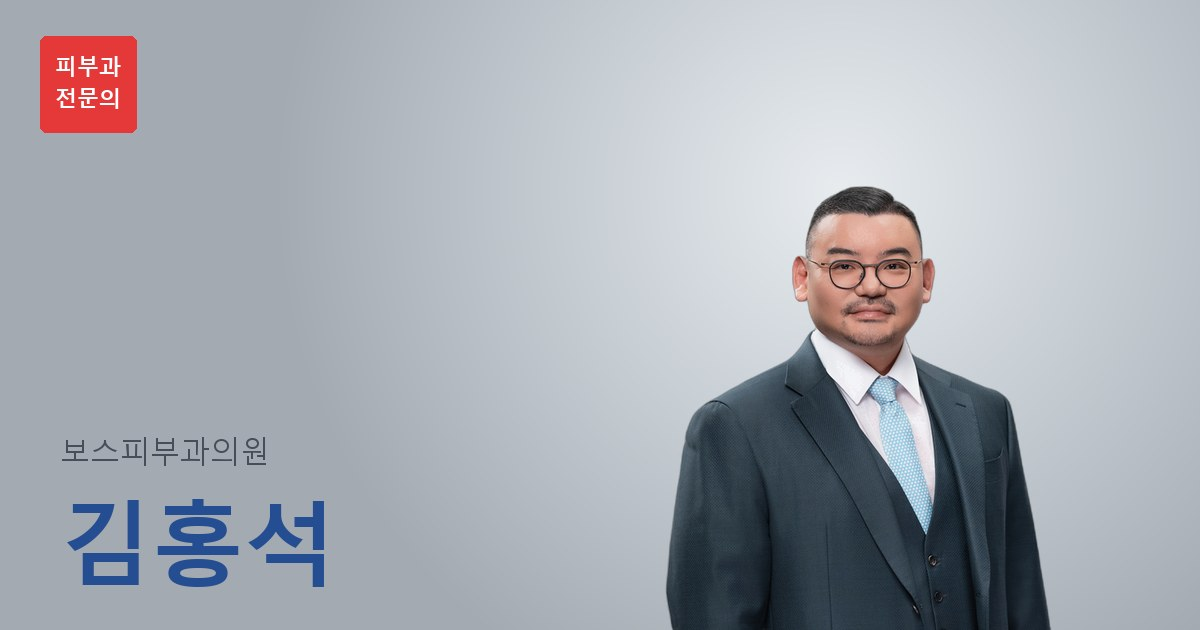
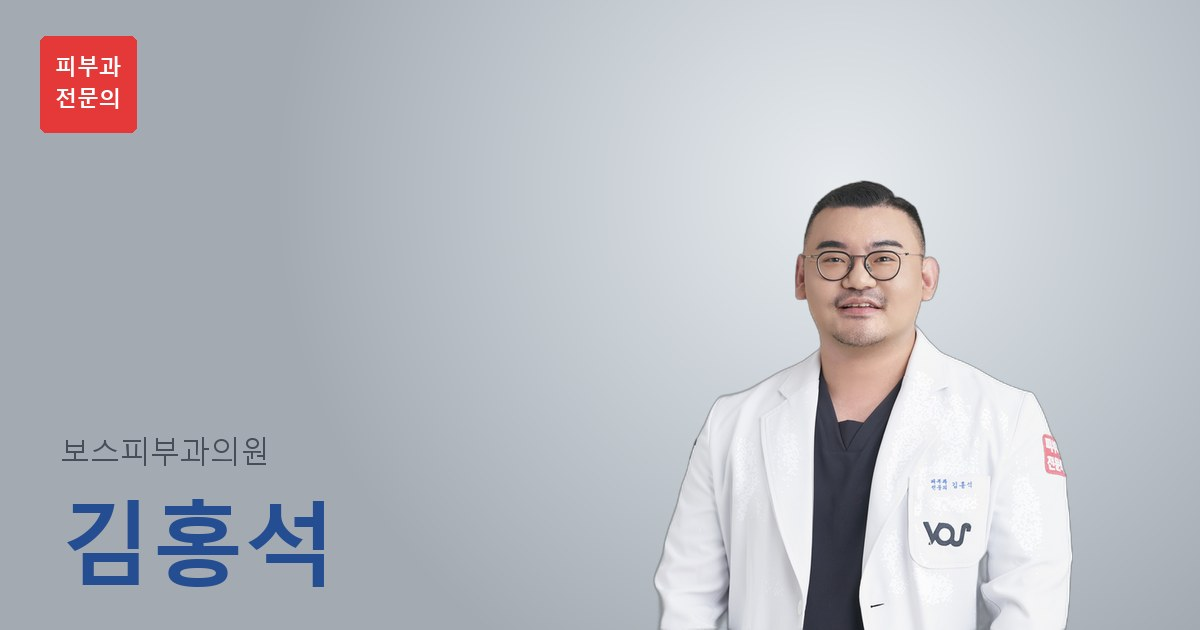
모바일 인물 크기 확대 + 사진 1·2 순서 변경(김홍석/신지연) + 메인 base href
- 모바일 .member-hero-photo img max-height 420 → 580px
- 메인 index.html에 base href 추가 (SPA replaceState 후 이미지 경로 정상화)
- 김홍석, 신지연 누끼 1번/2번 순서 교환
- 정적 HTML 16개 캐시 버전 갱신

Changed region(s): [[0.5242, 0.2714, 0.8942, 1.0]]

diff --git a/index.html b/index.html
@@ -2,6 +2,7 @@
 <html lang="ko">
 <head>
   <meta charset="UTF-8">
+  <base href="/akd-members/">
   <meta name="viewport" content="width=device-width, initial-scale=1.0">
   <title>대한피부과의사회 - 가까운 피부과를 찾아보세요</title>
   <meta name="description" content="대한피부과의사회 회원 의료진과 병원을 가까운 순서로 찾아보세요.">
@@ -22,7 +23,7 @@
   <link href="https://fonts.googleapis.com/css2?family=Noto+Sans+KR:wght@300;400;500;600;700;800&display=swap" rel="stylesheet">
   <link rel="stylesheet" href="https://unpkg.com/leaflet@1.9.4/dist/leaflet.css" />
   <link rel="stylesheet" href="https://cdnjs.cloudflare.com/ajax/libs/font-awesome/6.5.1/css/all.min.css" />
-  <link rel="stylesheet" href="css/style.css?v=20260501q">
+  <link rel="stylesheet" href="css/style.css?v=20260501r">
 </head>
 <body>
   <!-- Navigation -->
@@ -56,6 +57,6 @@
   </footer>
 
   <script src="https://unpkg.com/leaflet@1.9.4/dist/leaflet.js"></script>
-  <script src="js/app.js?v=20260501q"></script>
+  <script src="js/app.js?v=20260501r"></script>
 </body>
 </html>

diff --git a/clinic/foret/index.html b/clinic/foret/index.html
@@ -23,7 +23,7 @@
   <link href="https://fonts.googleapis.com/css2?family=Noto+Sans+KR:wght@300;400;500;600;700;800&display=swap" rel="stylesheet">
   <link rel="stylesheet" href="https://unpkg.com/leaflet@1.9.4/dist/leaflet.css" />
   <link rel="stylesheet" href="https://cdnjs.cloudflare.com/ajax/libs/font-awesome/6.5.1/css/all.min.css" />
-  <link rel="stylesheet" href="css/style.css?v=20260501o">
+  <link rel="stylesheet" href="css/style.css?v=20260501r">
 </head>
 <body>
   <!-- Navigation -->
@@ -57,6 +57,6 @@
   </footer>
 
   <script src="https://unpkg.com/leaflet@1.9.4/dist/leaflet.js"></script>
-  <script src="js/app.js?v=20260501o"></script>
+  <script src="js/app.js?v=20260501r"></script>
 </body>
 </html>

diff --git a/clinic/healhouse-gangnam/index.html b/clinic/healhouse-gangnam/index.html
@@ -23,7 +23,7 @@
   <link href="https://fonts.googleapis.com/css2?family=Noto+Sans+KR:wght@300;400;500;600;700;800&display=swap" rel="stylesheet">
   <link rel="stylesheet" href="https://unpkg.com/leaflet@1.9.4/dist/leaflet.css" />
   <link rel="stylesheet" href="https://cdnjs.cloudflare.com/ajax/libs/font-awesome/6.5.1/css/all.min.css" />
-  <link rel="stylesheet" href="css/style.css?v=20260501o">
+  <link rel="stylesheet" href="css/style.css?v=20260501r">
 </head>
 <body>
   <!-- Navigation -->
@@ -57,6 +57,6 @@
   </footer>
 
   <script src="https://unpkg.com/leaflet@1.9.4/dist/leaflet.js"></script>
-  <script src="js/app.js?v=20260501o"></script>
+  <script src="js/app.js?v=20260501r"></script>
 </body>
 </html>

diff --git a/clinic/hev-sinsa/index.html b/clinic/hev-sinsa/index.html
@@ -23,7 +23,7 @@
   <link href="https://fonts.googleapis.com/css2?family=Noto+Sans+KR:wght@300;400;500;600;700;800&display=swap" rel="stylesheet">
   <link rel="stylesheet" href="https://unpkg.com/leaflet@1.9.4/dist/leaflet.css" />
   <link rel="stylesheet" href="https://cdnjs.cloudflare.com/ajax/libs/font-awesome/6.5.1/css/all.min.css" />
-  <link rel="stylesheet" href="css/style.css?v=20260501o">
+  <link rel="stylesheet" href="css/style.css?v=20260501r">
 </head>
 <body>
   <!-- Navigation -->
@@ -57,6 +57,6 @@
   </footer>
 
   <script src="https://unpkg.com/leaflet@1.9.4/dist/leaflet.js"></script>
-  <script src="js/app.js?v=20260501o"></script>
+  <script src="js/app.js?v=20260501r"></script>
 </body>
 </html>

diff --git a/clinic/human-pyeongtaek/index.html b/clinic/human-pyeongtaek/index.html
@@ -23,7 +23,7 @@
   <link href="https://fonts.googleapis.com/css2?family=Noto+Sans+KR:wght@300;400;500;600;700;800&display=swap" rel="stylesheet">
   <link rel="stylesheet" href="https://unpkg.com/leaflet@1.9.4/dist/leaflet.css" />
   <link rel="stylesheet" href="https://cdnjs.cloudflare.com/ajax/libs/font-awesome/6.5.1/css/all.min.css" />
-  <link rel="stylesheet" href="css/style.css?v=20260501o">
+  <link rel="stylesheet" href="css/style.css?v=20260501r">
 </head>
 <body>
   <!-- Navigation -->
@@ -57,6 +57,6 @@
   </footer>
 
   <script src="https://unpkg.com/leaflet@1.9.4/dist/leaflet.js"></script>
-  <script src="js/app.js?v=20260501o"></script>
+  <script src="js/app.js?v=20260501r"></script>
 </body>
 </html>

diff --git a/clinic/vos/index.html b/clinic/vos/index.html
@@ -23,7 +23,7 @@
   <link href="https://fonts.googleapis.com/css2?family=Noto+Sans+KR:wght@300;400;500;600;700;800&display=swap" rel="stylesheet">
   <link rel="stylesheet" href="https://unpkg.com/leaflet@1.9.4/dist/leaflet.css" />
   <link rel="stylesheet" href="https://cdnjs.cloudflare.com/ajax/libs/font-awesome/6.5.1/css/all.min.css" />
-  <link rel="stylesheet" href="css/style.css?v=20260501o">
+  <link rel="stylesheet" href="css/style.css?v=20260501r">
 </head>
 <body>
   <!-- Navigation -->
@@ -57,6 +57,6 @@
   </footer>
 
   <script src="https://unpkg.com/leaflet@1.9.4/dist/leaflet.js"></script>
-  <script src="js/app.js?v=20260501o"></script>
+  <script src="js/app.js?v=20260501r"></script>
 </body>
 </html>

diff --git a/dermatologist/bae-jungmin/index.html b/dermatologist/bae-jungmin/index.html
@@ -23,7 +23,7 @@
   <link href="https://fonts.googleapis.com/css2?family=Noto+Sans+KR:wght@300;400;500;600;700;800&display=swap" rel="stylesheet">
   <link rel="stylesheet" href="https://unpkg.com/leaflet@1.9.4/dist/leaflet.css" />
   <link rel="stylesheet" href="https://cdnjs.cloudflare.com/ajax/libs/font-awesome/6.5.1/css/all.min.css" />
-  <link rel="stylesheet" href="css/style.css?v=20260501o">
+  <link rel="stylesheet" href="css/style.css?v=20260501r">
 </head>
 <body>
   <!-- Navigation -->
@@ -57,6 +57,6 @@
   </footer>
 
   <script src="https://unpkg.com/leaflet@1.9.4/dist/leaflet.js"></script>
-  <script src="js/app.js?v=20260501o"></script>
+  <script src="js/app.js?v=20260501r"></script>
 </body>
 </html>

diff --git a/dermatologist/gye-jiwon/index.html b/dermatologist/gye-jiwon/index.html
@@ -23,7 +23,7 @@
   <link href="https://fonts.googleapis.com/css2?family=Noto+Sans+KR:wght@300;400;500;600;700;800&display=swap" rel="stylesheet">
   <link rel="stylesheet" href="https://unpkg.com/leaflet@1.9.4/dist/leaflet.css" />
   <link rel="stylesheet" href="https://cdnjs.cloudflare.com/ajax/libs/font-awesome/6.5.1/css/all.min.css" />
-  <link rel="stylesheet" href="css/style.css?v=20260501o">
+  <link rel="stylesheet" href="css/style.css?v=20260501r">
 </head>
 <body>
   <!-- Navigation -->
@@ -57,6 +57,6 @@
   </footer>
 
   <script src="https://unpkg.com/leaflet@1.9.4/dist/leaflet.js"></script>
-  <script src="js/app.js?v=20260501o"></script>
+  <script src="js/app.js?v=20260501r"></script>
 </body>
 </html>

diff --git a/dermatologist/jung-hanmi/index.html b/dermatologist/jung-hanmi/index.html
@@ -23,7 +23,7 @@
   <link href="https://fonts.googleapis.com/css2?family=Noto+Sans+KR:wght@300;400;500;600;700;800&display=swap" rel="stylesheet">
   <link rel="stylesheet" href="https://unpkg.com/leaflet@1.9.4/dist/leaflet.css" />
   <link rel="stylesheet" href="https://cdnjs.cloudflare.com/ajax/libs/font-awesome/6.5.1/css/all.min.css" />
-  <link rel="stylesheet" href="css/style.css?v=20260501o">
+  <link rel="stylesheet" href="css/style.css?v=20260501r">
 </head>
 <body>
   <!-- Navigation -->
@@ -57,6 +57,6 @@
   </footer>
 
   <script src="https://unpkg.com/leaflet@1.9.4/dist/leaflet.js"></script>
-  <script src="js/app.js?v=20260501o"></script>
+  <script src="js/app.js?v=20260501r"></script>
 </body>
 </html>

diff --git a/dermatologist/jung-jongheon/index.html b/dermatologist/jung-jongheon/index.html
@@ -23,7 +23,7 @@
   <link href="https://fonts.googleapis.com/css2?family=Noto+Sans+KR:wght@300;400;500;600;700;800&display=swap" rel="stylesheet">
   <link rel="stylesheet" href="https://unpkg.com/leaflet@1.9.4/dist/leaflet.css" />
   <link rel="stylesheet" href="https://cdnjs.cloudflare.com/ajax/libs/font-awesome/6.5.1/css/all.min.css" />
-  <link rel="stylesheet" href="css/style.css?v=20260501o">
+  <link rel="stylesheet" href="css/style.css?v=20260501r">
 </head>
 <body>
   <!-- Navigation -->
@@ -57,6 +57,6 @@
   </footer>
 
   <script src="https://unpkg.com/leaflet@1.9.4/dist/leaflet.js"></script>
-  <script src="js/app.js?v=20260501o"></script>
+  <script src="js/app.js?v=20260501r"></script>
 </body>
 </html>

diff --git a/dermatologist/kim-hongseok/index.html b/dermatologist/kim-hongseok/index.html
@@ -23,7 +23,7 @@
   <link href="https://fonts.googleapis.com/css2?family=Noto+Sans+KR:wght@300;400;500;600;700;800&display=swap" rel="stylesheet">
   <link rel="stylesheet" href="https://unpkg.com/leaflet@1.9.4/dist/leaflet.css" />
   <link rel="stylesheet" href="https://cdnjs.cloudflare.com/ajax/libs/font-awesome/6.5.1/css/all.min.css" />
-  <link rel="stylesheet" href="css/style.css?v=20260501o">
+  <link rel="stylesheet" href="css/style.css?v=20260501r">
 </head>
 <body>
   <!-- Navigation -->
@@ -57,6 +57,6 @@
   </footer>
 
   <script src="https://unpkg.com/leaflet@1.9.4/dist/leaflet.js"></script>
-  <script src="js/app.js?v=20260501o"></script>
+  <script src="js/app.js?v=20260501r"></script>
 </body>
 </html>

diff --git a/dermatologist/lee-haeun/index.html b/dermatologist/lee-haeun/index.html
@@ -23,7 +23,7 @@
   <link href="https://fonts.googleapis.com/css2?family=Noto+Sans+KR:wght@300;400;500;600;700;800&display=swap" rel="stylesheet">
   <link rel="stylesheet" href="https://unpkg.com/leaflet@1.9.4/dist/leaflet.css" />
   <link rel="stylesheet" href="https://cdnjs.cloudflare.com/ajax/libs/font-awesome/6.5.1/css/all.min.css" />
-  <link rel="stylesheet" href="css/style.css?v=20260501o">
+  <link rel="stylesheet" href="css/style.css?v=20260501r">
 </head>
 <body>
   <!-- Navigation -->
@@ -57,6 +57,6 @@
   </footer>
 
   <script src="https://unpkg.com/leaflet@1.9.4/dist/leaflet.js"></script>
-  <script src="js/app.js?v=20260501o"></script>
+  <script src="js/app.js?v=20260501r"></script>
 </body>
 </html>
